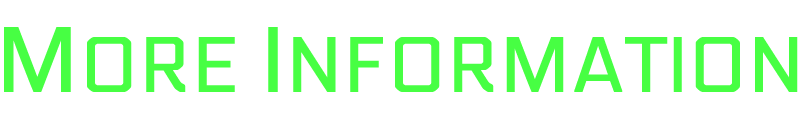
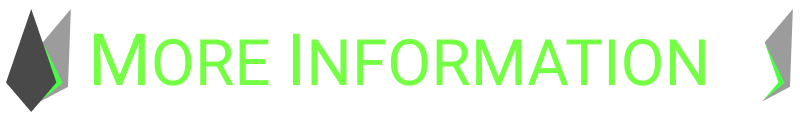
ちょうせい

Changed region(s): [[0.0, 0.1, 1.0, 0.925]]

diff --git a/README.md b/README.md
@@ -6,8 +6,6 @@ I'm a Japanese high school student who learning Information engineering as hobby
 I can  speak English little so I'm welcome English speakers.  
 ![igameta's GitHub stats](https://github-readme-stats.vercel.app/api?username=igameta&count_private=true&show_icons=true&theme=vue-dark)
 [![Top Langs](https://github-readme-stats.vercel.app/api/top-langs/?username=igameta&layout=compact&count_private=true&theme=vue-dark)](https://github.com/anuraghazra/github-readme-stats)  
-<img src="https://igameta.com/img/logo/logo-light.svg" width="4%">
 <a href="https://igameta.com">
-<img src="https://github.com/igameta/igameta/blob/master/MORE-INFORMATION.png" width="60%">
+<img src="https://github.com/igameta/igameta/blob/master/MORE-INFORMATION.png">
 </a>
-<img src="https://igameta.com/img/logo/logo-dark.svg" width="4%">  
